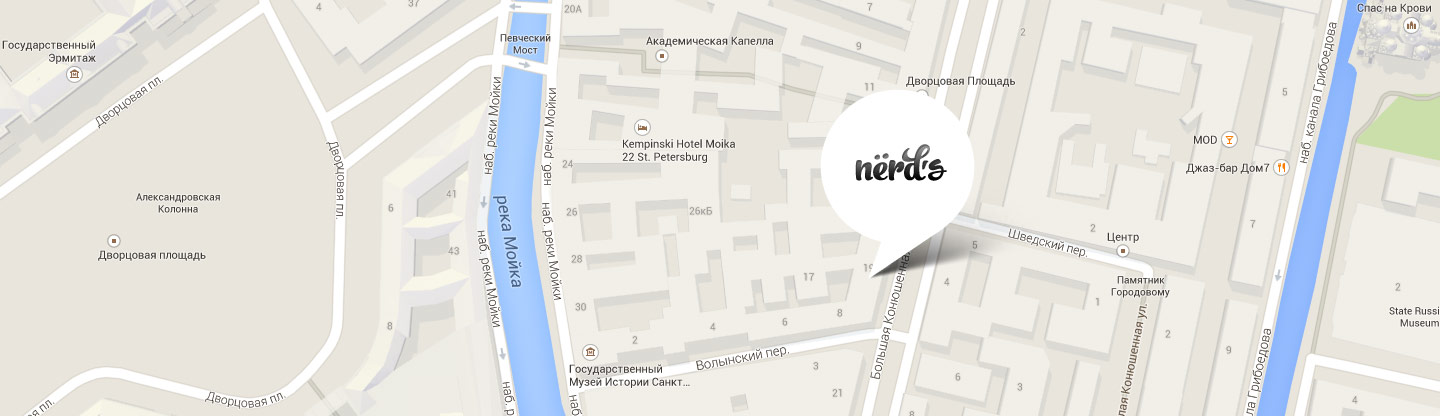
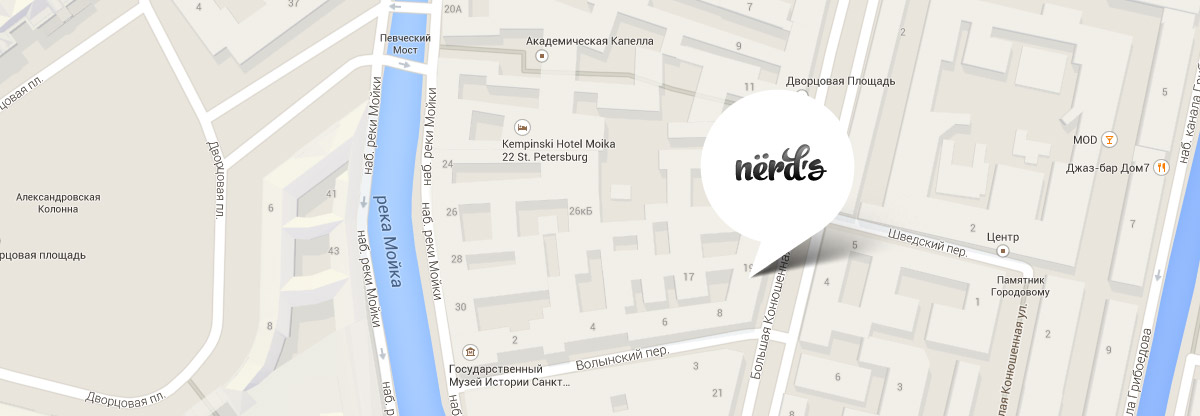
Изменил ширину карты.

diff --git a/index.html b/index.html
@@ -124,8 +124,8 @@
         </div>
       </div>
       <div class="map">
-        <img src="img/map.jpg" width="1440" height="416" alt="191186, Санкт-Петербург, ул. Б. Конюшенная, д. 19/8">
-        <iframe class="interactive-map" src="https://www.google.com/maps/embed?pb=!1m14!1m8!1m3!1d7994.423702813197!2d30.325004!3d59.938681!3m2!1i1024!2i768!4f13.1!3m3!1m2!1s0x4696310fca5ba729%3A0xea9c53d4493c879f!2z0JHQvtC70YzRiNCw0Y8g0JrQvtC90Y7RiNC10L3QvdCw0Y8g0YPQuy4sIDE5LCDQodCw0L3QutGCLdCf0LXRgtC10YDQsdGD0YDQsywg0KDQvtGB0YHQuNGPLCAxOTExODY!5e0!3m2!1sru!2s!4v1494169253125" width="1440" height="416" style="border:0;" allowfullscreen>
+        <img src="img/map.jpg" width="1200" height="416" alt="191186, Санкт-Петербург, ул. Б. Конюшенная, д. 19/8">
+        <iframe class="interactive-map" src="https://www.google.com/maps/embed?pb=!1m14!1m8!1m3!1d7994.423702813197!2d30.325004!3d59.938681!3m2!1i1024!2i768!4f13.1!3m3!1m2!1s0x4696310fca5ba729%3A0xea9c53d4493c879f!2z0JHQvtC70YzRiNCw0Y8g0JrQvtC90Y7RiNC10L3QvdCw0Y8g0YPQuy4sIDE5LCDQodCw0L3QutGCLdCf0LXRgtC10YDQsdGD0YDQsywg0KDQvtGB0YHQuNGPLCAxOTExODY!5e0!3m2!1sru!2s!4v1494169253125" width="1200" height="416" style="border:0;" allowfullscreen>
         </iframe>
         <div class="contacts-field">
           <h2>Nёrds design studio</h2>

diff --git a/nerds-catalog.html b/nerds-catalog.html
@@ -174,8 +174,8 @@
         </div>
       </div>
       <div class="map">
-        <img src="img/map.jpg" width="1440" height="416" alt="191186, Санкт-Петербург, ул. Б. Конюшенная, д. 19/8">
-        <iframe class="interactive-map" src="https://www.google.com/maps/embed?pb=!1m14!1m8!1m3!1d7994.423702813197!2d30.325004!3d59.938681!3m2!1i1024!2i768!4f13.1!3m3!1m2!1s0x4696310fca5ba729%3A0xea9c53d4493c879f!2z0JHQvtC70YzRiNCw0Y8g0JrQvtC90Y7RiNC10L3QvdCw0Y8g0YPQuy4sIDE5LCDQodCw0L3QutGCLdCf0LXRgtC10YDQsdGD0YDQsywg0KDQvtGB0YHQuNGPLCAxOTExODY!5e0!3m2!1sru!2s!4v1494169253125" width="1440" height="416" style="border:0;" allowfullscreen>
+        <img src="img/map.jpg" width="1200" height="416" alt="191186, Санкт-Петербург, ул. Б. Конюшенная, д. 19/8">
+        <iframe class="interactive-map" src="https://www.google.com/maps/embed?pb=!1m14!1m8!1m3!1d7994.423702813197!2d30.325004!3d59.938681!3m2!1i1024!2i768!4f13.1!3m3!1m2!1s0x4696310fca5ba729%3A0xea9c53d4493c879f!2z0JHQvtC70YzRiNCw0Y8g0JrQvtC90Y7RiNC10L3QvdCw0Y8g0YPQuy4sIDE5LCDQodCw0L3QutGCLdCf0LXRgtC10YDQsdGD0YDQsywg0KDQvtGB0YHQuNGPLCAxOTExODY!5e0!3m2!1sru!2s!4v1494169253125" width="1200" height="416" style="border:0;" allowfullscreen>
         </iframe>
         <div class="contacts-field">
           <h2>Nёrds design studio</h2>

diff --git a/css/style.css b/css/style.css
@@ -582,6 +582,8 @@ body {
 
 .map {
   position: relative;
+  width: 1200px;
+  margin: 0 auto;
 }
 
 .interactive-map {
@@ -593,7 +595,7 @@ body {
 
 .contacts-field {
   position: absolute;
-  left: 140px;
+  left: 20px;
   top: 54px;
 
   width: 318px;
@@ -1323,7 +1325,7 @@ input[name="grid-select"]:disabled + label {
 
 .catalog-item-hover p {
   width: 240px;
-  max-height: 250px;
+  max-height: 40px;
   margin: 0 auto;
   margin-bottom: 28px;
   text-align: center;
